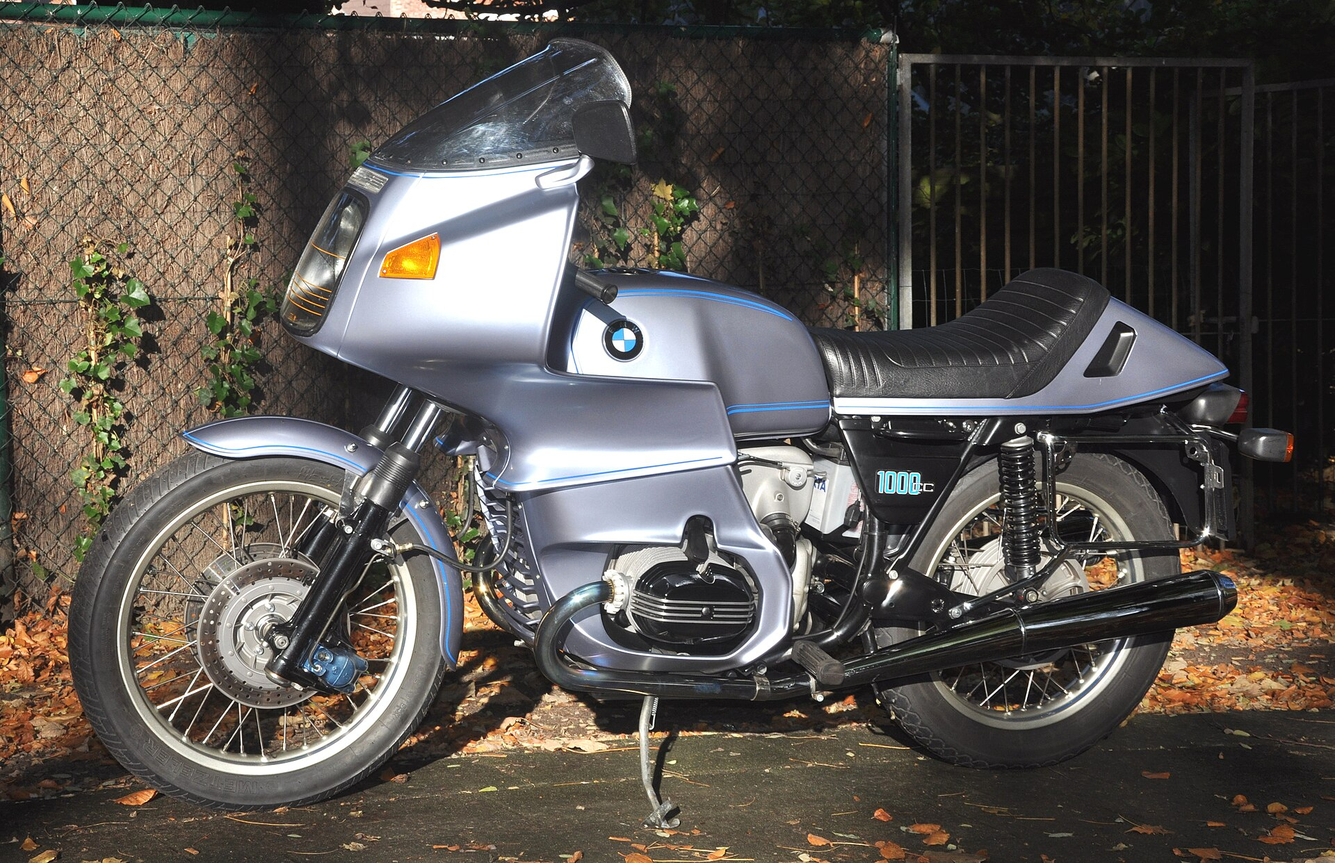
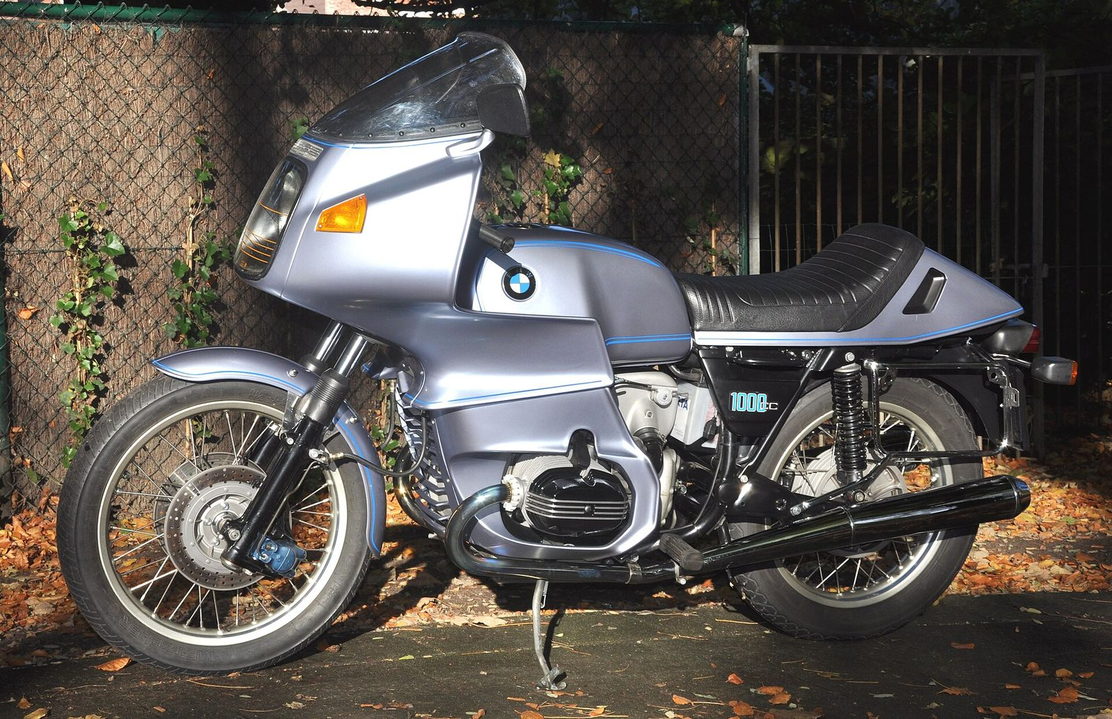
Self-host photos, drop Wikimedia fallback, stamp placement
Claude-Session: https://claude.ai/code/session_01WSFqr2GdcMEEgpW11vkEoC

Changed region(s): [[0.6562, 0.5565, 0.6875, 0.5874], [0.5, 0.9894, 0.5312, 1.0], [0.2188, 0.3401, 0.25, 0.371]]

diff --git a/datenschutz.html b/datenschutz.html
@@ -16,7 +16,7 @@
 <main class="wrap legal">
 <!-- MUSTER – keine Rechtsberatung; vor Veröffentlichung prüfen lassen. Stand: 10.11.2026.
      Speicherdauer in Web3Forms auf 30 Tage einstellen (oder Text anpassen).
-     Abschnitt 4 entfernen, sobald alle Fotos selbst gehostet werden. -->
+     Fotos sind selbst gehostet (assets/img), daher kein Abschnitt zu Wikimedia. -->
 <section id="de" lang="de">
   <h1>Datenschutzerklärung</h1>
   <p>Stand: November 2026</p>
@@ -27,35 +27,31 @@
   <p>Ein Datenschutzbeauftragter ist nicht benannt (keine gesetzliche Pflicht).</p>
 
   <h3>2. Überblick</h3>
-  <p>Diese Website ist eine statische Einzelseite zur unverbindlichen Bedarfsabfrage für einen geplanten Verleih klassischer Motorräder. Wir verwenden keine Cookies, keine Social-Media-Plugins, keine Schriftarten von Drittanbietern (die Schriften werden mit der Website ausgeliefert) und keinen Newsletter.</p>
+  <p>Diese Website ist eine statische Einzelseite zur unverbindlichen Bedarfsabfrage für einen geplanten Verleih klassischer Motorräder. Wir verwenden keine Cookies, keine Social-Media-Plugins und keinen Newsletter. Schriften und Fotos werden mit der Website selbst ausgeliefert; es werden keine Inhalte von fremden Servern nachgeladen, außer dem Zählskript von GoatCounter (Abschnitt 5) und dem Versand des Formulars (Abschnitt 4).</p>
 
   <h3>3. Hosting (GitHub Pages)</h3>
   <p>Die Website wird über GitHub Pages der GitHub, Inc., San Francisco, USA (Tochter der Microsoft Corporation), bereitgestellt. Beim Aufruf verarbeitet GitHub Zugriffsdaten (Server-Logfiles), insbesondere IP-Adresse, Zeitpunkt, aufgerufene Adresse, verweisende Website sowie Browser- und Betriebssysteminformationen. Nach eigenen Angaben speichert GitHub die IP-Adressen der Besucher zu Sicherheitszwecken. Wir haben auf diese Logfiles keinen Zugriff.</p>
   <p>Rechtsgrundlage ist Art. 6 Abs. 1 lit. f DSGVO; unser berechtigtes Interesse ist die sichere und zuverlässige Bereitstellung der Website. Die Daten können in den USA verarbeitet werden; GitHub ist nach dem EU-US Data Privacy Framework (DPF) zertifiziert, sodass der Angemessenheitsbeschluss der EU-Kommission greift (Art. 45 DSGVO). Mehr dazu im <a href="https://docs.github.com/en/site-policy/privacy-policies/github-general-privacy-statement" rel="noopener">Datenschutzhinweis von GitHub</a>.</p>
 
-  <h3>4. Bilder von Wikimedia Commons</h3>
-  <p>Solange keine lokale Kopie eines Fotos vorliegt, wird es direkt von Servern von Wikimedia Commons (upload.wikimedia.org) geladen, die die Wikimedia Foundation, Inc., San Francisco, USA, betreibt. Dabei übermittelt Ihr Browser Ihre IP-Adresse, Browserinformationen und die Adresse dieser Seite an die Wikimedia Foundation. Rechtsgrundlage ist Art. 6 Abs. 1 lit. f DSGVO; unser berechtigtes Interesse ist die Darstellung frei lizenzierter Fotos der vorgestellten Modelle.</p>
-  <p>Nach eigenen Angaben löscht oder anonymisiert die Wikimedia Foundation solche Daten grundsätzlich nach höchstens 90 Tagen. Eine Verarbeitung in den USA ist möglich. Die Wikimedia Foundation ist nach unserem Kenntnisstand nicht nach dem DPF zertifiziert; insoweit besteht kein Angemessenheitsbeschluss, und ein Zugriff durch US-Behörden ist nicht auszuschließen. Wir stellen die Fotos auf eigene, mit der Website ausgelieferte Kopien um.</p>
-
-  <h3>5. Anfrageformular (Web3Forms) und E-Mail</h3>
+  <h3>4. Anfrageformular (Web3Forms) und E-Mail</h3>
   <p>Bei Nutzung des Anfrageformulars verarbeiten wir: Name, E-Mail-Adresse, optional Telefonnummer, gewähltes Motorrad, Mietdauer, Wunschmonat, Anzahl der Tage, Sprache der Seite und Ihre Nachricht sowie automatisch die Herkunft Ihres Besuchs (UTM-Kampagnenparameter, verweisende Website). Die Angaben sind freiwillig; ohne Kontaktdaten können wir jedoch nicht antworten.</p>
   <p>Zwecke sind die Beantwortung Ihrer Anfrage, die Vorbereitung eines möglichen Mietvertrags und die Auswertung, über welche Kanäle Interessenten uns finden. Rechtsgrundlagen sind Art. 6 Abs. 1 lit. b DSGVO (vorvertragliche Maßnahmen auf Ihre Anfrage) und Art. 6 Abs. 1 lit. f DSGVO (berechtigtes Interesse an der Beantwortung allgemeiner Anfragen, der Spam-Abwehr und der Auswertung unserer Bedarfsabfrage).</p>
   <p>Das Formular wird über Web3Forms der Web3Creative, Kerala, Indien, übermittelt und per E-Mail an uns weitergeleitet. Web3Forms ist unser Auftragsverarbeiter und setzt nach eigenen Angaben Unterauftragsverarbeiter ein, u. a. Amazon Web Services, Cloudflare sowie die Spam-Prüfdienste CleanTalk und Akismet, die dafür IP- und E-Mail-Adresse erhalten. Für Indien besteht kein Angemessenheitsbeschluss; die Übermittlung erfolgt auf Grundlage der EU-Standardvertragsklauseln (Art. 46 Abs. 2 lit. c DSGVO) im Auftragsverarbeitungsvertrag von Web3Forms. Web3Forms speichert Einsendungen standardmäßig bis zu drei Jahre; wir haben die Speicherdauer auf 30 Tage verkürzt. Mehr dazu in der <a href="https://web3forms.com/privacy" rel="noopener">Datenschutzerklärung von Web3Forms</a>.</p>
   <p>Anfragen gehen in unserem Gmail-Postfach ein (Google). Eine Verarbeitung durch die Google LLC in den USA ist möglich; Google LLC ist nach dem DPF zertifiziert (Art. 45 DSGVO). Dasselbe gilt, wenn Sie uns direkt per E-Mail schreiben.</p>
   <p>Anfragen ohne anschließenden Vertragsschluss löschen wir spätestens sechs Monate nach der letzten Kommunikation. Kommt ein Vertrag zustande, speichern wir die Daten zur Vertragsabwicklung und im Rahmen gesetzlicher, insbesondere steuerrechtlicher Aufbewahrungspflichten.</p>
 
-  <h3>6. Reichweitenmessung (GoatCounter)</h3>
+  <h3>5. Reichweitenmessung (GoatCounter)</h3>
   <p>Wir nutzen den Statistikdienst GoatCounter, betrieben von Martin Tournoij, Irland. Das Zählskript wird von gc.zgo.at geladen, die Zählung an berlinclassicbikes.goatcounter.com übermittelt. Die Daten liegen nach Angaben des Anbieters auf Servern der Hetzner Online GmbH in Deutschland und Finnland.</p>
   <p>Erfasst werden aufgerufene Seite (Pfad, Titel), verweisende Website, Browser und Betriebssystem, Bildschirmbreite, Spracheinstellung sowie das aus der IP-Adresse abgeleitete Land bzw. die Region. Zusätzlich zählen wir Ereignisse wie Klicks auf Motorradmodelle, die gewählte Sprache und das Absenden des Formulars (ohne Inhalte). IP-Adresse und vollständige Browserkennung werden nicht gespeichert; zur Erkennung wiederholter Aufrufe wird höchstens acht Stunden eine zufällige Kennung im Arbeitsspeicher des Servers gehalten. Es werden keine Nutzerprofile gebildet; gespeichert werden nur zusammengefasste Statistiken.</p>
   <p>Für die Reichweitenmessung werden keine Cookies gesetzt und keine Informationen auf Ihrem Endgerät gespeichert. Rechtsgrundlage ist Art. 6 Abs. 1 lit. f DSGVO; unser berechtigtes Interesse ist die Messung der Nachfrage nach dem geplanten Angebot. Sie können die Erfassung durch Deaktivieren von JavaScript oder einen Inhaltsblocker verhindern. Mehr dazu in der <a href="https://www.goatcounter.com/help/privacy" rel="noopener">Datenschutzerklärung von GoatCounter</a>.</p>
 
-  <h3>7. Sprachauswahl (localStorage)</h3>
+  <h3>6. Sprachauswahl (localStorage)</h3>
   <p>Wenn Sie eine Sprache auswählen, wird diese Auswahl im lokalen Speicher Ihres Browsers (localStorage) abgelegt, damit die Seite beim nächsten Besuch in dieser Sprache erscheint. Der Eintrag enthält nur das Sprachkürzel, wird nicht übermittelt und lässt sich über die Browsereinstellungen löschen. Die Speicherung ist für den von Ihnen gewünschten Dienst unbedingt erforderlich (§ 25 Abs. 2 Nr. 2 TDDDG).</p>
 
-  <h3>8. SSL-/TLS-Verschlüsselung</h3>
+  <h3>7. SSL-/TLS-Verschlüsselung</h3>
   <p>Diese Website nutzt eine SSL-/TLS-Verschlüsselung, erkennbar an „https://“ in der Adresszeile.</p>
 
-  <h3>9. Ihre Rechte</h3>
+  <h3>8. Ihre Rechte</h3>
   <p>Sie haben das Recht auf Auskunft (Art. 15 DSGVO), Berichtigung (Art. 16), Löschung (Art. 17), Einschränkung der Verarbeitung (Art. 18) und Datenübertragbarkeit (Art. 20). Eine E-Mail an die oben genannte Adresse genügt.</p>
   <p><strong>Widerspruchsrecht (Art. 21 DSGVO):</strong> Verarbeitungen auf Grundlage von Art. 6 Abs. 1 lit. f DSGVO können Sie aus Gründen, die sich aus Ihrer besonderen Situation ergeben, jederzeit widersprechen.</p>
   <p>Sie können sich zudem bei einer Datenschutz-Aufsichtsbehörde beschweren (Art. 77 DSGVO), etwa bei der Berliner Beauftragten für Datenschutz und Informationsfreiheit, Alt-Moabit 59–61, 10555 Berlin, <a href="https://www.datenschutz-berlin.de" rel="noopener">www.datenschutz-berlin.de</a>.</p>
@@ -72,35 +68,31 @@
   <p>No data protection officer has been appointed, as there is no legal obligation to do so.</p>
 
   <h3>2. Overview</h3>
-  <p>This website is a static single page used as a non-binding demand test for a planned rental of classic motorcycles. We do not use cookies, social media plugins, third-party fonts (fonts are delivered with the website) or a newsletter.</p>
+  <p>This website is a static single page used as a non-binding demand test for a planned rental of classic motorcycles. We do not use cookies, social media plugins or a newsletter. Fonts and photos are delivered with the website itself; no content is loaded from third-party servers except the GoatCounter counting script (section 5) and the form submission (section 4).</p>
 
   <h3>3. Hosting (GitHub Pages)</h3>
   <p>The website is served via GitHub Pages, provided by GitHub, Inc., San Francisco, USA (a subsidiary of Microsoft Corporation). When you access the page, GitHub processes access data (server log files), in particular your IP address, time of access, requested URL, referring website and browser and operating system information. According to GitHub, visitors' IP addresses are logged and stored for security purposes. We have no access to these log files.</p>
   <p>The legal basis is Art. 6(1)(f) GDPR; our legitimate interest is the secure and reliable delivery of the website. Data may be processed in the USA; GitHub is certified under the EU-U.S. Data Privacy Framework (DPF), so the European Commission's adequacy decision applies (Art. 45 GDPR). See <a href="https://docs.github.com/en/site-policy/privacy-policies/github-general-privacy-statement" rel="noopener">GitHub's Privacy Statement</a>.</p>
 
-  <h3>4. Images from Wikimedia Commons</h3>
-  <p>As long as no local copy of a photo exists, it is loaded directly from Wikimedia Commons servers (upload.wikimedia.org) operated by the Wikimedia Foundation, Inc., San Francisco, USA. Your browser thereby transmits your IP address, browser information and the address of this page to the Wikimedia Foundation. The legal basis is Art. 6(1)(f) GDPR; our legitimate interest is displaying freely licensed photos of the motorcycle models presented.</p>
-  <p>According to its own information, the Wikimedia Foundation generally deletes or anonymises such data after no more than 90 days. Processing in the USA is possible. To our knowledge, the Wikimedia Foundation is not certified under the DPF; no adequacy decision therefore covers this transfer, and access by US authorities cannot be ruled out. We are switching the photos to our own copies delivered with the website.</p>
-
-  <h3>5. Request form (Web3Forms) and email</h3>
+  <h3>4. Request form (Web3Forms) and email</h3>
   <p>When you use the request form, we process your name, email address, optional phone number, selected motorcycle, rental length, preferred month, number of days, page language and your message, and, automatically, how you reached our site (UTM campaign parameters, referring website). Providing this information is voluntary; without contact details, however, we cannot reply.</p>
   <p>The purposes are answering your request, preparing a possible rental agreement and evaluating through which channels prospective customers find us. The legal bases are Art. 6(1)(b) GDPR (pre-contractual steps taken at your request) and Art. 6(1)(f) GDPR (legitimate interest in answering general enquiries, preventing spam and evaluating our demand test).</p>
   <p>The form is submitted via Web3Forms, operated by Web3Creative, Kerala, India, which forwards it to us by email. Web3Forms acts as our processor and, according to its own information, uses sub-processors including Amazon Web Services, Cloudflare and the spam-filtering services CleanTalk and Akismet, which receive your IP and email address for this purpose. There is no adequacy decision for India; the transfer is based on the EU Standard Contractual Clauses (Art. 46(2)(c) GDPR) included in Web3Forms' data processing agreement. By default, Web3Forms stores submissions for up to three years; we have reduced the retention period to 30 days. See the <a href="https://web3forms.com/privacy" rel="noopener">Web3Forms Privacy Policy</a>.</p>
   <p>Requests are received in our Gmail mailbox (Google). Processing by Google LLC in the USA is possible; Google LLC is certified under the DPF (Art. 45 GDPR). The same applies if you email us directly.</p>
   <p>We delete requests that do not lead to a contract no later than six months after our last communication. If a contract is concluded, we retain the data to perform it and as required by statutory, in particular tax-law, retention obligations.</p>
 
-  <h3>6. Audience measurement (GoatCounter)</h3>
+  <h3>5. Audience measurement (GoatCounter)</h3>
   <p>We use the web analytics service GoatCounter, operated by Martin Tournoij, Ireland. The counting script is loaded from gc.zgo.at and counts are sent to berlinclassicbikes.goatcounter.com. According to the provider, data is stored on servers of Hetzner Online GmbH in Germany and Finland.</p>
   <p>GoatCounter records the page visited (path, title), referring website, browser and operating system, screen width, language setting and the country or region derived from your IP address. We also count events such as clicks on motorcycle models, the selected language and form submissions (without their content). Your IP address and full user-agent string are not stored; to recognise repeat visits, a random identifier is kept in the server's memory for no longer than eight hours. No user profiles are created; only aggregated statistics are stored.</p>
   <p>No cookies are set and no information is stored on your device for audience measurement. The legal basis is Art. 6(1)(f) GDPR; our legitimate interest is measuring demand for the planned service. You can prevent tracking by disabling JavaScript or using a content blocker. See the <a href="https://www.goatcounter.com/help/privacy" rel="noopener">GoatCounter Privacy Policy</a>.</p>
 
-  <h3>7. Language selection (localStorage)</h3>
+  <h3>6. Language selection (localStorage)</h3>
   <p>When you choose a language, the choice is saved in your browser's local storage (localStorage) so that the page appears in that language on your next visit. The entry contains only the language code, is not transmitted and can be deleted via your browser settings. This storage is strictly necessary to provide the service you requested (§ 25(2) no. 2 TDDDG).</p>
 
-  <h3>8. SSL/TLS encryption</h3>
+  <h3>7. SSL/TLS encryption</h3>
   <p>This website uses SSL/TLS encryption, recognisable by “https://” in the address bar.</p>
 
-  <h3>9. Your rights</h3>
+  <h3>8. Your rights</h3>
   <p>You have the right of access (Art. 15 GDPR), rectification (Art. 16), erasure (Art. 17), restriction of processing (Art. 18) and data portability (Art. 20). An email to the address above is sufficient.</p>
   <p><strong>Right to object (Art. 21 GDPR):</strong> You may object at any time, on grounds relating to your particular situation, to processing based on Art. 6(1)(f) GDPR.</p>
   <p>You also have the right to lodge a complaint with a data protection supervisory authority (Art. 77 GDPR), for example the Berlin Commissioner for Data Protection and Freedom of Information, Alt-Moabit 59–61, 10555 Berlin, Germany, <a href="https://www.datenschutz-berlin.de" rel="noopener">www.datenschutz-berlin.de</a>.</p>

diff --git a/assets/js/app.js b/assets/js/app.js
@@ -7,15 +7,13 @@
   var HERO_BIKE = "r100rs";
 
   /* Bikes. Photos are example photos of the same model from Wikimedia Commons,
-     credited in the footer. A GitHub Action (.github/workflows/fetch-images.yml) copies
-     them into assets/img/; until a local copy exists the page falls back to Wikimedia.
-     Own photos later: put them into assets/img/, set img, drop remote + credit. */
+     self-hosted in assets/img/ (copied by .github/workflows/fetch-images.yml) and
+     credited in the footer. Own photos later: replace the file, remove credit. */
   var BIKES = [
     {
       id: "v7",
       year: "1971",
       img: "assets/img/v7.jpg",
-      remote: "https://upload.wikimedia.org/wikipedia/commons/thumb/d/d9/Moto_Guzzi_V7_Special_1969_museum.jpg/1280px-Moto_Guzzi_V7_Special_1969_museum.jpg",
       credit: { title: "Moto Guzzi V7 Special 1969 museum", author: "CheminduCret", license: "CC0 1.0", licenseUrl: "https://creativecommons.org/publicdomain/zero/1.0/", source: "https://commons.wikimedia.org/wiki/File:Moto_Guzzi_V7_Special_1969_museum.jpg" },
       specs: { engine: "spec.v7.engine", power: "spec.v7.power", drive: "spec.shaft", brakes: "spec.v7.brakes", top: "spec.v7.top", licence: "spec.licA" }
     },
@@ -23,7 +21,6 @@
       id: "r100rs",
       year: "1984",
       img: "assets/img/r100rs.jpg",
-      remote: "https://upload.wikimedia.org/wikipedia/commons/thumb/5/57/New-BMW_R100RS.jpg/1920px-New-BMW_R100RS.jpg",
       credit: { title: "New-BMW R100RS", author: "JanH015, Cjp24", license: "CC BY-SA 4.0", licenseUrl: "https://creativecommons.org/licenses/by-sa/4.0/", source: "https://commons.wikimedia.org/wiki/File:New-BMW_R100RS.jpg" },
       specs: { engine: "spec.r100rs.engine", power: "spec.r100rs.power", drive: "spec.shaft", brakes: "spec.r100rs.brakes", top: "spec.r100rs.top", licence: "spec.licA" }
     },
@@ -31,7 +28,6 @@
       id: "t100",
       year: "custom",
       img: "assets/img/t100.jpg",
-      remote: "https://upload.wikimedia.org/wikipedia/commons/thumb/5/59/Triumph_Bonneville_T100_%282011%29.jpg/1280px-Triumph_Bonneville_T100_%282011%29.jpg",
       credit: { title: "Triumph Bonneville T100 (2011)", author: "Hogyn Lleol", license: "CC BY-SA 4.0", licenseUrl: "https://creativecommons.org/licenses/by-sa/4.0/", source: "https://commons.wikimedia.org/wiki/File:Triumph_Bonneville_T100_(2011).jpg" },
       specs: { engine: "spec.t100.engine", power: "spec.t100.power", drive: "spec.chain", brakes: "spec.t100.brakes", top: "spec.t100.top", licence: "spec.licA" }
     }

diff --git a/assets/css/style.css b/assets/css/style.css
@@ -183,13 +183,13 @@ a:hover { color: var(--green-dark); }
 
 /* the one loud element: a rubber stamp over the photo */
 .stamp {
-  position: absolute; top: -1.4rem; left: -1.6rem;
+  position: absolute; top: -2.9rem; left: -2.2rem; z-index: 1;
   transform: rotate(-9deg);
   color: var(--stamp); border: 4px double var(--stamp); border-radius: 6px;
   padding: .45rem .9rem .35rem; text-align: center; line-height: 1;
   font-family: var(--display); font-weight: 800; text-transform: uppercase;
-  background: rgba(227,231,220,.82);
-  mix-blend-mode: multiply;
+  background: var(--paper);
+  box-shadow: 0 0 0 4px var(--paper);
 }
 .stamp b { display: block; font-size: 2.1rem; letter-spacing: .04em; }
 .stamp small { display: block; font-size: 1rem; letter-spacing: .12em; margin-top: .2rem; font-weight: 700; }
@@ -316,7 +316,7 @@ footer .credits p { margin: .2rem 0; }
 @media (max-width: 820px) {
   .hero { grid-template-columns: minmax(0, 1fr); }
   .hero-photo { order: -1; margin-top: 1rem; }
-  .stamp { left: auto; right: -.4rem; top: -1rem; }
+  .stamp { left: auto; right: -.2rem; top: -2rem; }
   .prices, .form-grid { grid-template-columns: minmax(0, 1fr); }
 }
 @media (max-width: 520px) {
